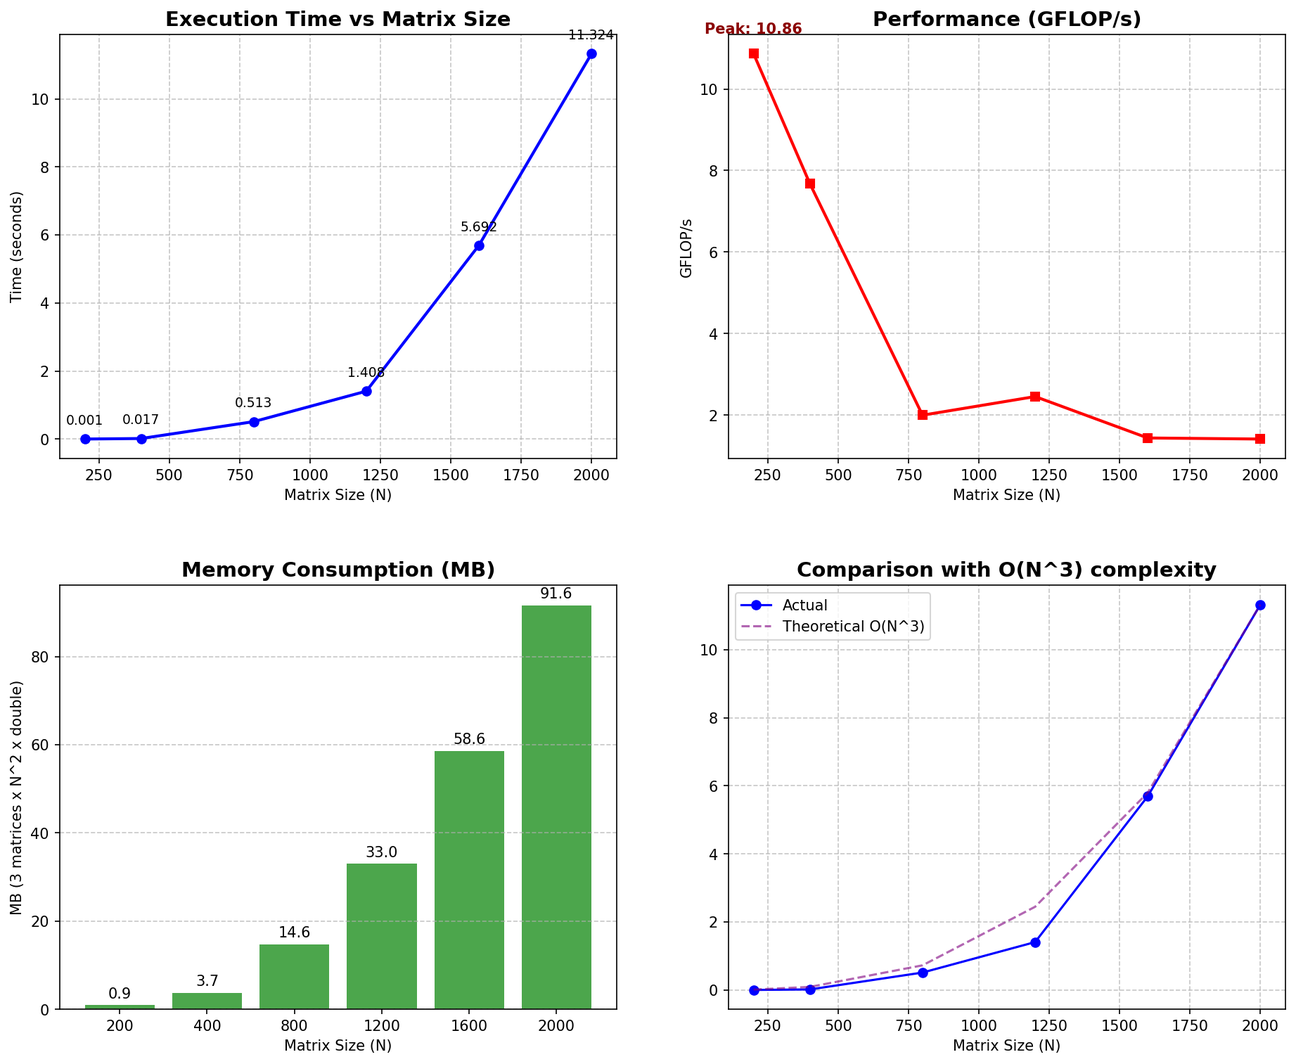
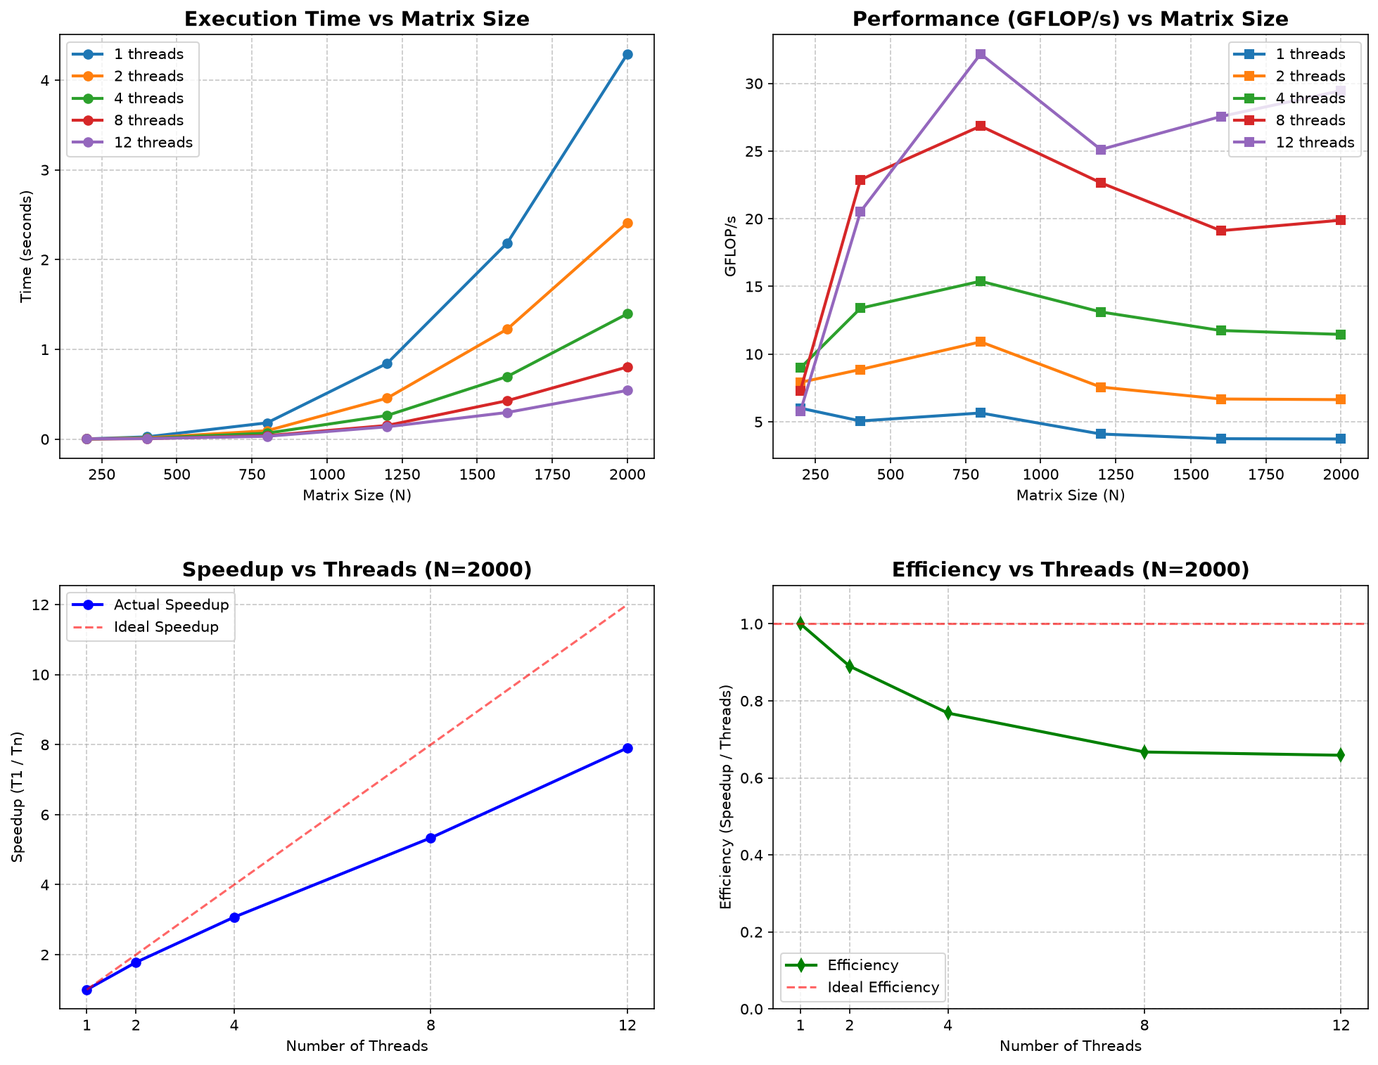
OpenMP Lab 2: Matrix Multiplication

diff --git a/plot_results.py b/plot_results.py
@@ -1,73 +1,82 @@
 import pandas as pd
 import matplotlib.pyplot as plt
-import numpy as np
 import os
-
 
 def plot():
     if not os.path.exists("experiment_results.csv"):
-        print("CSV not found!")
+        print("Error: CSV file not found.")
         return
 
-    # Загружаем данные
-    df = pd.read_csv("experiment_results.csv", names=["N", "Time", "Perf"])
-    df = df.sort_values("N")
+    try:
+        df = pd.read_csv("experiment_results.csv", header=None)
+    except Exception as e:
+        print("Error reading CSV:", e)
+        return
+        
+    if df.shape[1] != 4:
+        print(f"ERROR: Expected 4 columns in CSV, but found {df.shape[1]}.")
+        print("Please make sure you SAVED your C++ file in VS Code (Ctrl+S) before running the bat file!")
+        return
 
-
-    df["Memory"] = (3 * df["N"] ** 2 * 8) / (1024 * 1024)
-
-
-    k = df["Time"].iloc[-1] / (df["N"].iloc[-1] ** 3)
-    df["Theory"] = k * (df["N"] ** 3)
-
-
-    fig, axs = plt.subplots(2, 2, figsize=(15, 12))
+    df.columns = ["N", "Threads", "Time", "Perf"]
+    
+    fig, axs = plt.subplots(2, 2, figsize=(16, 12))
     plt.subplots_adjust(hspace=0.3, wspace=0.2)
 
+    threads = sorted(df["Threads"].unique())
 
-    axs[0, 0].plot(df["N"], df["Time"], 'o-', linewidth=2, color='blue', label='Actual Time')
-    for x, y in zip(df["N"], df["Time"]):
-        axs[0, 0].annotate(f'{y:.3f}', (x, y), textcoords="offset points", xytext=(0, 10), ha='center', fontsize=9)
+    for t in threads:
+        dft = df[df["Threads"] == t].sort_values("N")
+        axs[0, 0].plot(dft["N"], dft["Time"], marker='o', linewidth=2, label=f"{t} threads")
+
     axs[0, 0].set_title("Execution Time vs Matrix Size", fontsize=14, fontweight='bold')
+    axs[0, 0].set_xlabel("Matrix Size (N)")
     axs[0, 0].set_ylabel("Time (seconds)")
+    axs[0, 0].legend()
     axs[0, 0].grid(True, linestyle='--', alpha=0.7)
 
+    for t in threads:
+        dft = df[df["Threads"] == t].sort_values("N")
+        axs[0, 1].plot(dft["N"], dft["Perf"], marker='s', linewidth=2, label=f"{t} threads")
 
-    axs[0, 1].plot(df["N"], df["Perf"], 's-', linewidth=2, color='red')
-
-    peak_idx = df["Perf"].idxmax()
-    peak_n = df.loc[peak_idx, "N"]
-    peak_val = df.loc[peak_idx, "Perf"]
-    axs[0, 1].annotate(f'Peak: {peak_val:.2f}', (peak_n, peak_val), xytext=(peak_n, peak_val + 0.5),
-                       fontweight='bold', color='darkred', ha='center')
-    axs[0, 1].set_title("Performance (GFLOP/s)", fontsize=14, fontweight='bold')
+    axs[0, 1].set_title("Performance (GFLOP/s) vs Matrix Size", fontsize=14, fontweight='bold')
+    axs[0, 1].set_xlabel("Matrix Size (N)")
     axs[0, 1].set_ylabel("GFLOP/s")
+    axs[0, 1].legend()
     axs[0, 1].grid(True, linestyle='--', alpha=0.7)
 
+    max_n = df["N"].max()
+    df_max = df[df["N"] == max_n].sort_values("Threads")
 
-    bars = axs[1, 0].bar(df["N"].astype(str), df["Memory"], color='green', alpha=0.7)
-    for bar in bars:
-        height = bar.get_height()
-        axs[1, 0].annotate(f'{height:.1f}', (bar.get_x() + bar.get_width() / 2, height),
-                           xytext=(0, 3), textcoords="offset points", ha='center', va='bottom')
-    axs[1, 0].set_title("Memory Consumption (MB)", fontsize=14, fontweight='bold')
-    axs[1, 0].set_ylabel("MB (3 matrices x N^2 x double)")
-    axs[1, 0].grid(axis='y', linestyle='--', alpha=0.7)
+    if not df_max.empty and 1 in df_max["Threads"].values:
+        t1_time = df_max[df_max["Threads"] == 1]["Time"].values[0]
+        df_max["Speedup"] = t1_time / df_max["Time"]
+        
+        axs[1, 0].plot(df_max["Threads"], df_max["Speedup"], 'o-', color='blue', linewidth=2, label='Actual Speedup')
+        axs[1, 0].plot(df_max["Threads"], df_max["Threads"], '--', color='red', alpha=0.6, label='Ideal Speedup')
+        
+        axs[1, 0].set_title(f"Speedup vs Threads (N={max_n})", fontsize=14, fontweight='bold')
+        axs[1, 0].set_xlabel("Number of Threads")
+        axs[1, 0].set_ylabel("Speedup (T1 / Tn)")
+        axs[1, 0].set_xticks(threads)
+        axs[1, 0].legend()
+        axs[1, 0].grid(True, linestyle='--', alpha=0.7)
 
-
-    axs[1, 1].plot(df["N"], df["Time"], 'o-', label='Actual', color='blue')
-    axs[1, 1].plot(df["N"], df["Theory"], '--', label='Theoretical O(N^3)', color='purple', alpha=0.6)
-    axs[1, 1].set_title("Comparison with O(N^3) complexity", fontsize=14, fontweight='bold')
-    axs[1, 1].legend()
-    axs[1, 1].grid(True, linestyle='--', alpha=0.7)
-
-
-    for ax in axs.flat:
-        ax.set_xlabel("Matrix Size (N)")
+        df_max["Efficiency"] = df_max["Speedup"] / df_max["Threads"]
+        
+        axs[1, 1].plot(df_max["Threads"], df_max["Efficiency"], 'd-', color='green', linewidth=2, label='Efficiency')
+        axs[1, 1].axhline(y=1.0, color='red', linestyle='--', alpha=0.6, label='Ideal Efficiency')
+        
+        axs[1, 1].set_title(f"Efficiency vs Threads (N={max_n})", fontsize=14, fontweight='bold')
+        axs[1, 1].set_xlabel("Number of Threads")
+        axs[1, 1].set_ylabel("Efficiency (Speedup / Threads)")
+        axs[1, 1].set_xticks(threads)
+        axs[1, 1].set_ylim(0, 1.1)
+        axs[1, 1].legend()
+        axs[1, 1].grid(True, linestyle='--', alpha=0.7)
 
     plt.savefig("data/full_results_plot.png", dpi=150, bbox_inches='tight')
-    print("All 4 plots saved to data/full_results_plot.png")
-
+    print("Plots generated successfully!")
 
 if __name__ == "__main__":
     plot()

diff --git a/matrix_mult.cpp b/matrix_mult.cpp
@@ -1,8 +1,10 @@
 #include <iostream>
 #include <fstream>
 #include <vector>
-#include <chrono>
+#include <string>
 #include <iomanip>
+#include <chrono>
+#include <omp.h>
 
 using namespace std;
 
@@ -16,11 +18,23 @@ bool readMatrix(const string& filename, vector<double>& matrix, int& n) {
     return true;
 }
 
-int main() {
+int main(int argc, char* argv[]) {
     string fileA = "data/matrix_A.txt";
     string fileB = "data/matrix_B.txt";
     int n;
     vector<double> A, B, C;
+
+    int num_threads = 4;
+    if (argc > 1) {
+        num_threads = stoi(argv[1]);
+    }
+    
+    int max_procs = omp_get_num_procs();
+    if (num_threads > max_procs) {
+        num_threads = max_procs;
+    }
+
+    omp_set_num_threads(num_threads);
 
     if (!readMatrix(fileA, A, n) || !readMatrix(fileB, B, n)) {
         cerr << "Error: Could not read matrices!" << endl;
@@ -30,7 +44,7 @@ int main() {
     C.assign(n * n, 0.0);
     auto start = chrono::high_resolution_clock::now();
 
-
+    #pragma omp parallel for
     for (int i = 0; i < n; ++i) {
         for (int k = 0; k < n; ++k) {
             double a_ik = A[i * n + k];
@@ -46,14 +60,12 @@ int main() {
     double gflops = (2.0 * static_cast<double>(n) * n * n) / 1e9;
     double perf = gflops / duration.count();
 
-
-    cout << "N: " << n << " | Time: " << duration.count() << "s | Perf: " << perf << " GFLOP/s" << endl;
-
+    cout << "N: " << n << " | Threads: " << num_threads 
+         << " | Time: " << duration.count() << "s | Perf: " << perf << " GFLOP/s" << endl;
 
     ofstream csv("experiment_results.csv", ios::app);
-    csv << n << "," << duration.count() << "," << perf << "\n";
+    csv << n << "," << num_threads << "," << duration.count() << "," << perf << "\n";
     csv.close();
-
 
     ofstream resFile("data/matrix_C.txt");
     resFile << n << "\n";

diff --git a/README.md b/README.md
@@ -1,4 +1,4 @@
-# Лабораторная работа №1. Последовательное умножение квадратных матриц
+# Лабораторная работа №2. Параллельное умножение квадратных матриц (OpenMP)
 
 ## 1. Описание алгоритма
 
@@ -29,14 +29,10 @@ for (int i = 0; i < n; ++i) {
 * Значение `A[i][k]` вынесено во временную переменную, что исключает лишние обращения к памяти.
 * Несмотря на оптимизацию, при достижении больших значений N матрицы перестают помещаться в кэш-память, что ведет к падению производительности.
 
-### 1.2 Хранение матриц
-
-Матрицы хранятся в виде одномерных массивов `(std::vector)` с линейной индексацией `[i * n + j]`. Это гарантирует непрерывность блока памяти, что критически важно для производительности.
-
-### 1.3 Вычислительная сложность
+### 1.2 Вычислительная сложность
 
 * **Количество математических операций**: **2N³** (N³ умножений и N³ сложений).
-* **Сложность по памяти**: **3N²** элементов типа `double` (каждый по 8 байт).
+* **Сложность по памяти**: **3N²** элементов типа `double` (каждый по 8 байт). Память является общей для всех потоков, дублирование данных не требуется.
 
 ## 2. Структура проекта
 
@@ -47,8 +43,8 @@ project/
 ├── verify.py              - Скрипт верификации результата через NumPy
 ├── plot_results.py        - Скрипт построения графиков
 ├── experiment_results.csv - Таблица с результатами замеров
-├── run.bat                - Запуск тестового прогона (N=400) + верификация
-├── run_all.bat            - Запуск полной серии экспериментов (200..2000)
+├── run.bat                - Запуск одиночного теста
+├── run_all.bat            - Запуск полной серии экспериментов (до 12 потоков)
 ├── data/                  - Директория с матрицами и графиками
 │   └── full_results_plot.png - Сводный график результатов
 └── README.md              - Данный отчет
@@ -67,22 +63,46 @@ project/
 
 ### 4.1 Конфигурация стенда
 
-* **Процессор**: 12th Gen Intel(R) Core(TM) i5-1240P
+* **Процессор**: 12th Gen Intel(R) Core(TM) i5-1240P (Архитектура: 4 P-ядра + 8 E-ядер, всего 16 потоков)
 * **ОС**: Windows 11
-* **Компилятор**: g++ (флаг `-O2`)
+* **Компилятор**: g++ (флаги -O2, -fopenmp)
 * **Тип данных**: `double` (64 бит)
-* **Режим выполнения**: однопоточный
+* **Режим выполнения**: параллельный (1, 2, 4, 8, 12 потоков)
 
 ### 4.2 Таблица результатов
 
-| N | Время (сек) | Объём (GFLOP) | Произв. (GFLOP/s) | Память (МБ) |
-| :--- | :--- | :--- | :--- | :--- |
-| 200  | 0.0015      | 0.016         | 10.86             | 0.92        |
-| 400  | 0.0167      | 0.128         | 7.68              | 3.66        |
-| 800  | 0.5126      | 1.024         | 2.00              | 14.65       |
-| 1200 | 1.4077      | 3.456         | 2.46              | 32.96       |
-| 1600 | 5.6924      | 8.192         | 1.44              | 58.59       |
-| 2000 | 11.3237     | 16.000        | 1.41              | 91.55       |
+| Размер (N) | Потоки | Время (сек) | Производительность (GFLOP/s) |
+| :--- | :--- | :--- | :--- |
+| **200**  | 1  | 0.00266 | 6.00  |
+| 200      | 2  | 0.00202 | 7.91  |
+| 200      | 4  | 0.00178 | 8.97  |
+| 200      | 8  | 0.00218 | 7.30  |
+| 200      | 12 | 0.00277 | 5.76  |
+| **400**  | 1  | 0.02530 | 5.05  |
+| 400      | 2  | 0.01444 | 8.86  |
+| 400      | 4  | 0.00955 | 13.39 |
+| 400      | 8  | 0.00559 | 22.88 |
+| 400      | 12 | 0.00623 | 20.52 |
+| **800**  | 1  | 0.18128 | 5.64  |
+| 800      | 2  | 0.09391 | 10.90  |
+| 800      | 4  | 0.06655 | 15.38 |
+| 800      | 8  | 0.03814 | 26.84 |
+| 800      | 12 | 0.03181 | 32.18 |
+| **1200** | 1  | 0.84400 | 4.09  |
+| 1200     | 2  | 0.45695 | 7.56  |
+| 1200     | 4  | 0.26355 | 13.11 |
+| 1200     | 8  | 0.15253 | 22.65 |
+| 1200     | 12 | 0.13761 | 25.11 |
+| **1600** | 1  | 2.18595 | 3.74  |
+| 1600     | 2  | 1.22603 | 6.68  |
+| 1600     | 4  | 0.69763 | 11.74 |
+| 1600     | 8  | 0.42849 | 19.11 |
+| 1600     | 12 | 0.29729 | 27.55 |
+| **2000** | 1  | 4.29239 | 3.72  |
+| 2000     | 2  | 2.41127 | 6.63  |
+| 2000     | 4  | 1.39680 | 11.45 |
+| 2000     | 8  | 0.80422 | 19.89 |
+| 2000     | 12 | 0.54300 | 29.46 |
 
 ### 4.3 Графики
 
@@ -90,22 +110,27 @@ project/
 
 ## 5. Анализ результатов
 
-### 5.1 Временная сложность
+### 5.1 Ускорение и влияние гибридной архитектуры (P/E cores)
 
-Экспериментальные данные полностью подтверждают теоретическую асимптотическую сложность алгоритма **O(N³)**. На совмещенном графике видно, что кривая фактического времени выполнения совпадает с теоретической кривой кубической параболы.
+Теоретически, при идеальном распараллеливании ускорение должно расти линейно и равняться количеству потоков (S = T). На практике полученное ускорение на 12 потоках составило ~7.9x. Это объясняется двумя факторами:
 
-### 5.2 Производительность и влияние кэш-памяти
+1. **Насыщение (Memory Wall):** С увеличением количества потоков до 8 (и более), рост производительности часто перестает быть линейным из-за того, что узким местом становится пропускная способность оперативной памяти (ПСП), а не вычислительные мощности ядер. Ядра процессора простаивают в ожидании данных из ОЗУ.
+2. **Гибридная архитектура:** Процессор i5-1240P состоит из 4 производительных ядер и 8 энергоэффективных. Добавление в пул вычислений E-ядер дает меньший удельный прирост производительности по сравнению с полноценными P-ядрами, что ведет к постепенному снижению КПД.
 
-График производительности (GFLOP/s) наглядно демонстрирует влияние иерархии памяти:
-1. **Пик производительности**: Достигается при размерах матриц около N=400 - N=800. В этом диапазоне общий объем памяти позволяет матрицам целиком размещаться в кэш-памяти процессора.
-2. **Падение производительности**: При N=1200 и выше матрицы перестают помещаться в кэш. Начинает происходить вытеснение строк кэша. Процессору приходится постоянно обращаться к медленной оперативной памяти, из-за чего производительность неуклонно снижается.
+### 5.2 Влияние кэша в многопоточной среде
+
+При параллельном выполнении каждый поток активно загружает свои фрагменты матриц A, B и C в кэш своего ядра (L1/L2). При больших размерах N матрицы перестают помещаться даже в общий L3 кэш, что вызывает лавину кэш-промахов (cache misses) и задержек при обращении к ОЗУ. Из-за этого графики производительности (GFLOP/s) для всех конфигураций потоков показывают выраженный пик на малых-средних матрицах (N=400..800) и постепенный спад при N=1600+.
+
+### 5.3 Накладные расходы на малых матрицах (Накладные расходы OpenMP)
+
+При размерах задачи N=200 использование многопоточности оказалось неэффективным. Время работы 1 потока составило 0.0026 сек, а 12 потоков — 0.0027 сек. Это связано с тем, что накладные расходы операционной системы на создание, синхронизацию и управление 12 потоками превышают выгоду от разделения столь малого объема вычислений.
 
 ## 6. Выводы
 
-1. Разработана и успешно протестирована программа для однопоточного перемножения матриц на языке C++.
-2. Применение порядка циклов 'i-k-j' позволило достичь оптимального последовательного доступа к памяти.
-3. Экспериментально подтверждена кубическая сложность алгоритма.
-4. Выявлено узкое место: при увеличении объема данных скорость вычислений ограничивается пропускной способностью подсистемы памяти. В будущих работах это будет решаться распараллеливанием.
+1. Программа успешно модифицирована для работы в многопоточном режиме с использованием технологии OpenMP.
+2. Использование директив OpenMP позволяет достичь кратного увеличения производительности при минимальном вмешательстве в исходный код.
+3. Практически доказан закон Амдала и влияние накладных расходов: распараллеливание имеет смысл только для задач достаточно большого объема (в данном случае N > 400).
+4. Максимальная зафиксированная производительность составила ~32.18 GFLOP/s (при N=800 на 12 потоках), в то время как последовательная версия выдавала около 3-5 GFLOP/s.
 
 ## 7. Инструкция по запуску
 
@@ -115,12 +140,12 @@ project/
 run_all.bat
 ```
 
-Для одиночного запуска с верификацией:
+Для одиночного запуска с заданными параметрами:
 ```cmd
 run.bat
 ```
 
 **Требования для запуска**:
 
-* g++ (MinGW-w64)
-* Python 3 + `numpy` + `matplotlib`
+* g++ с поддержкой -fopenmp
+* Python 3 + `numpy` + `matplotlib` + `pandas` 
